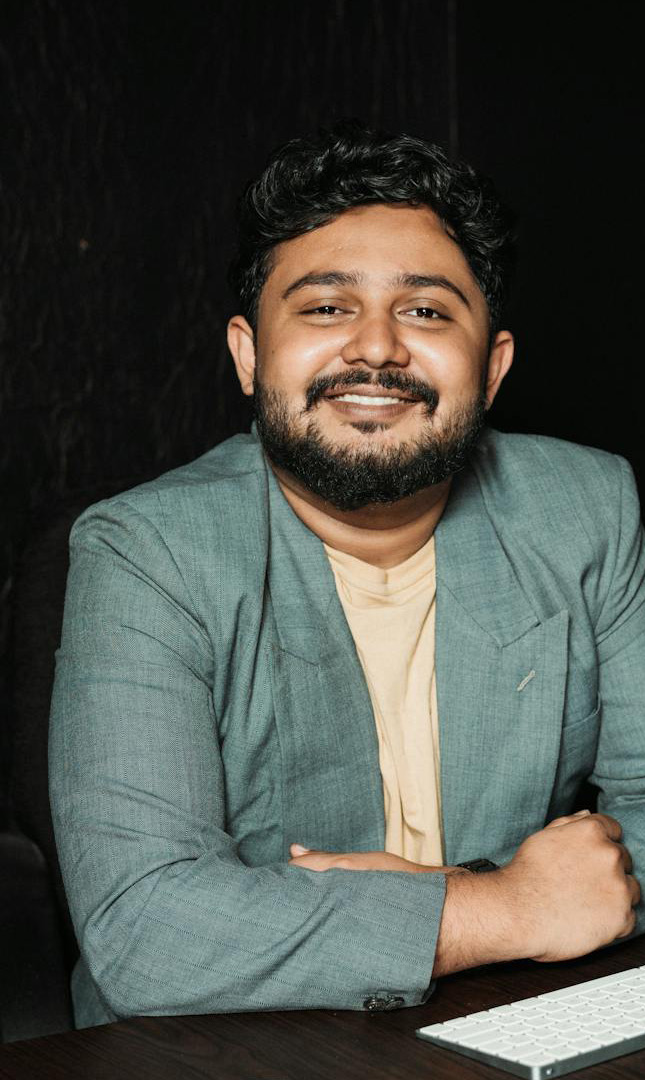
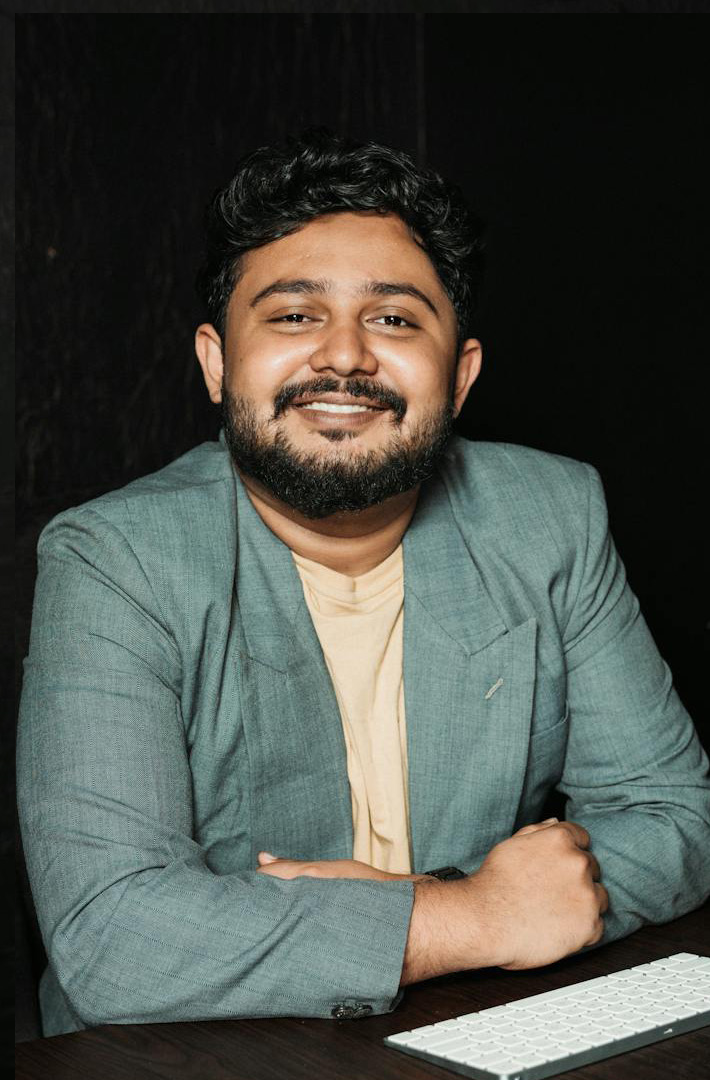
bg responsivness

diff --git a/tailwind.config.js b/tailwind.config.js
@@ -7,28 +7,33 @@ module.exports = {
   ],
   theme: {
     fontFamily: {
-      'Opensans': ["var(--font-open-sans)"],
-      'monserrat': ["var(--font-monserrat)"]
+      Opensans: ["var(--font-open-sans)"],
+      monserrat: ["var(--font-monserrat)"],
     },
     extend: {
       colors: {
-        'orange': "#F68A67",
-        'gray': '#353535',
-
+        orange: "#F68A67",
+        gray: "#353535",
       },
       backgroundImage: {
-        'HomepageBanner': 'url("/assets/banniere-acceuil.png")',
-        'HomepageBannerMobile': 'url("/assets/acceuilMobile.png")',
-        'apprenantsBanner': 'url("/assets/brooke-cagle-g1Kr4Ozfoac-unsplash.jpg")',
-        'partenairesBanner': 'url("/assets/creatopy-b6Fo9loWZUk-unsplash.jpg")',
-        'identiteBanner': 'url("/assets/jud-mackrill-Of_m3hMsoAA-unsplash.jpg")',
-        'contactBanner': 'url("/assets/nathan-anderson-FHiJWoBodrs-unsplash.jpg")',
-        'bgAri': 'url("/assets/bgAri.svg")'
+        HomepageBanner: 'url("/assets/banniere-acceuil.png")',
+        HomepageBannerMobile: 'url("/assets/acceuilMobile.png")',
+        apprenantsBanner:
+          'url("/assets/brooke-cagle-g1Kr4Ozfoac-unsplash.jpg")',
+        partenairesBanner: 'url("/assets/creatopy-b6Fo9loWZUk-unsplash.jpg")',
+        identiteBanner: 'url("/assets/jud-mackrill-Of_m3hMsoAA-unsplash.jpg")',
+        contactBanner:
+          'url("/assets/nathan-anderson-FHiJWoBodrs-unsplash.jpg")',
+        bgAri: 'url("/assets/bgAri.svg")',
       },
       screens: {
-        "lg": "1180px"
-      }
+        lg: "1180px",
+        sm: '700px',
+      },
     },
   },
   plugins: [],
+  variants: {
+    backgroundImage: ["responsive"], 
+  },
 };

diff --git a/app/page.js b/app/page.js
@@ -25,7 +25,7 @@ export default function Home() {
   ]
   return (
     <>
-      <Banner className="bg-HomepageBanner min-h-[700px] pl-[50px] ">
+      <Banner className="bg-HomepageBanner min-h-[700px] pl-[50px] sm:bg-HomepageBanner bg-cover bg-center transition-all duration-300 ease-in-out ">
         <h3 className="text-[48px] text-start font-monserrat font-bold uppercase bg-gradient-to-r from-[#54E0E9] via-[#816CFF] to-[#B163FF] text-transparent bg-clip-text w-[100%] md:w-[60%]">
           Trouvez votre futur opportunité dans l&apos;IT
         </h3>
@@ -90,7 +90,6 @@ export default function Home() {
               content="Jeune diplômé sans emploi ? Rejoignez notre organisme pour une formation ciblée qui vous démarque. Développez des compétences recherchées par les recruteurs grâce à nos projets concrets et décrochez enfin le poste que vous méritez."
               className="bg-[#FEF9F5]"
             />
-          
           </div>
         </div>
       </div>

diff --git a/app/globals.css b/app/globals.css
@@ -20,7 +20,12 @@ body {
   text-overflow: ellipsis;
   overflow: hidden;
 }
-
+@media (max-width: 768px) {
+  .container {
+    padding: 0;
+    margin: 0;
+  }
+}
 .slides-container {
   height: 400px;
 }
